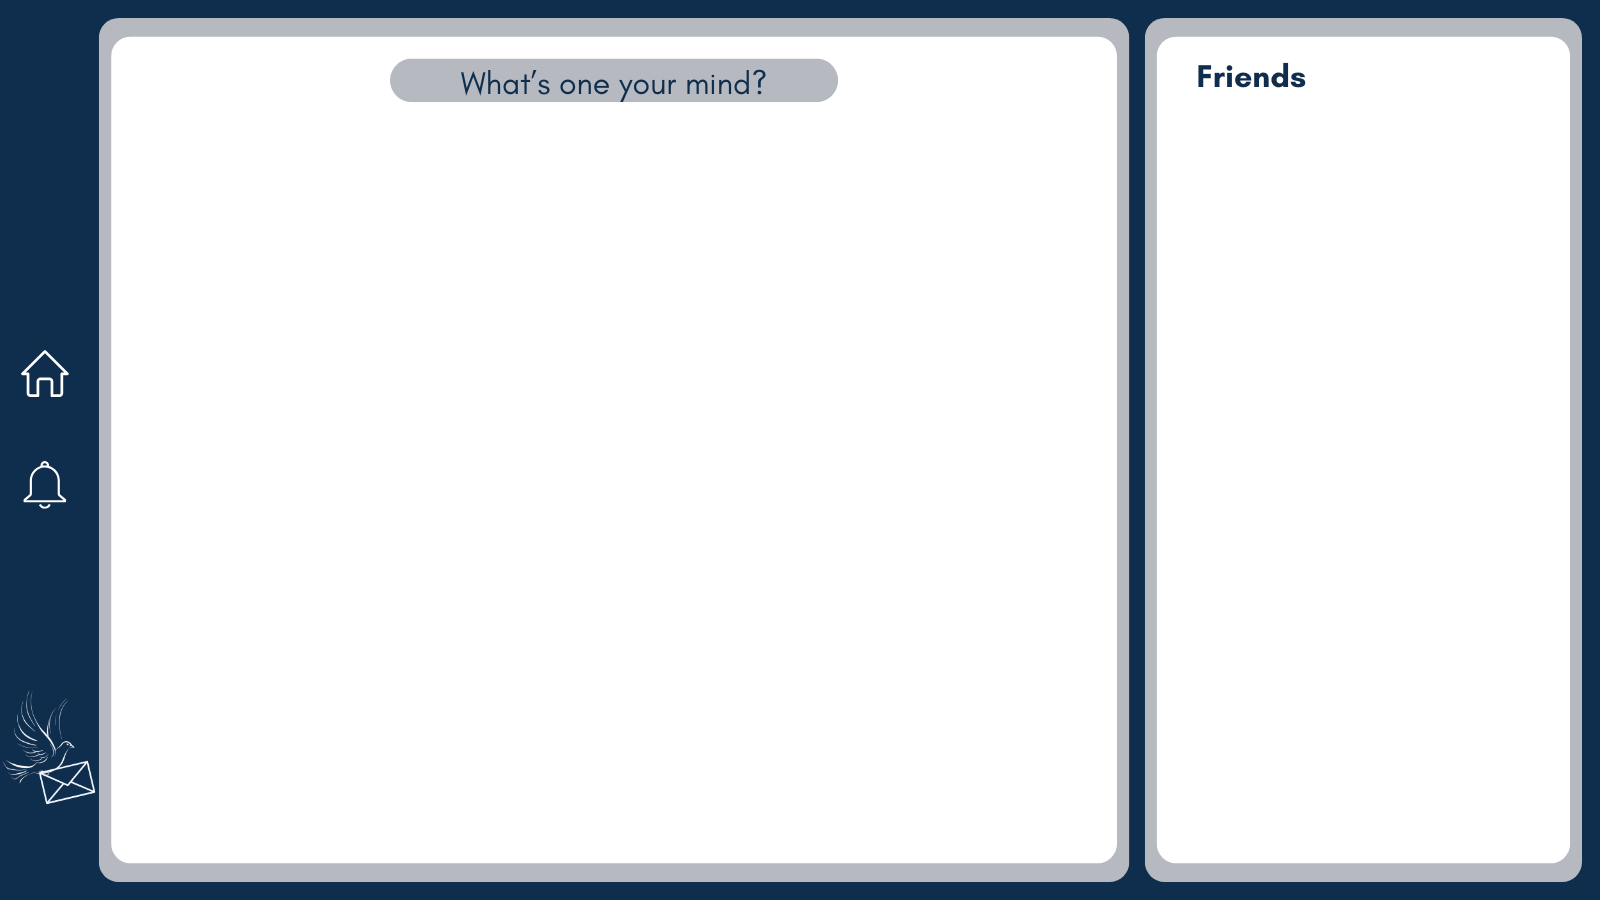
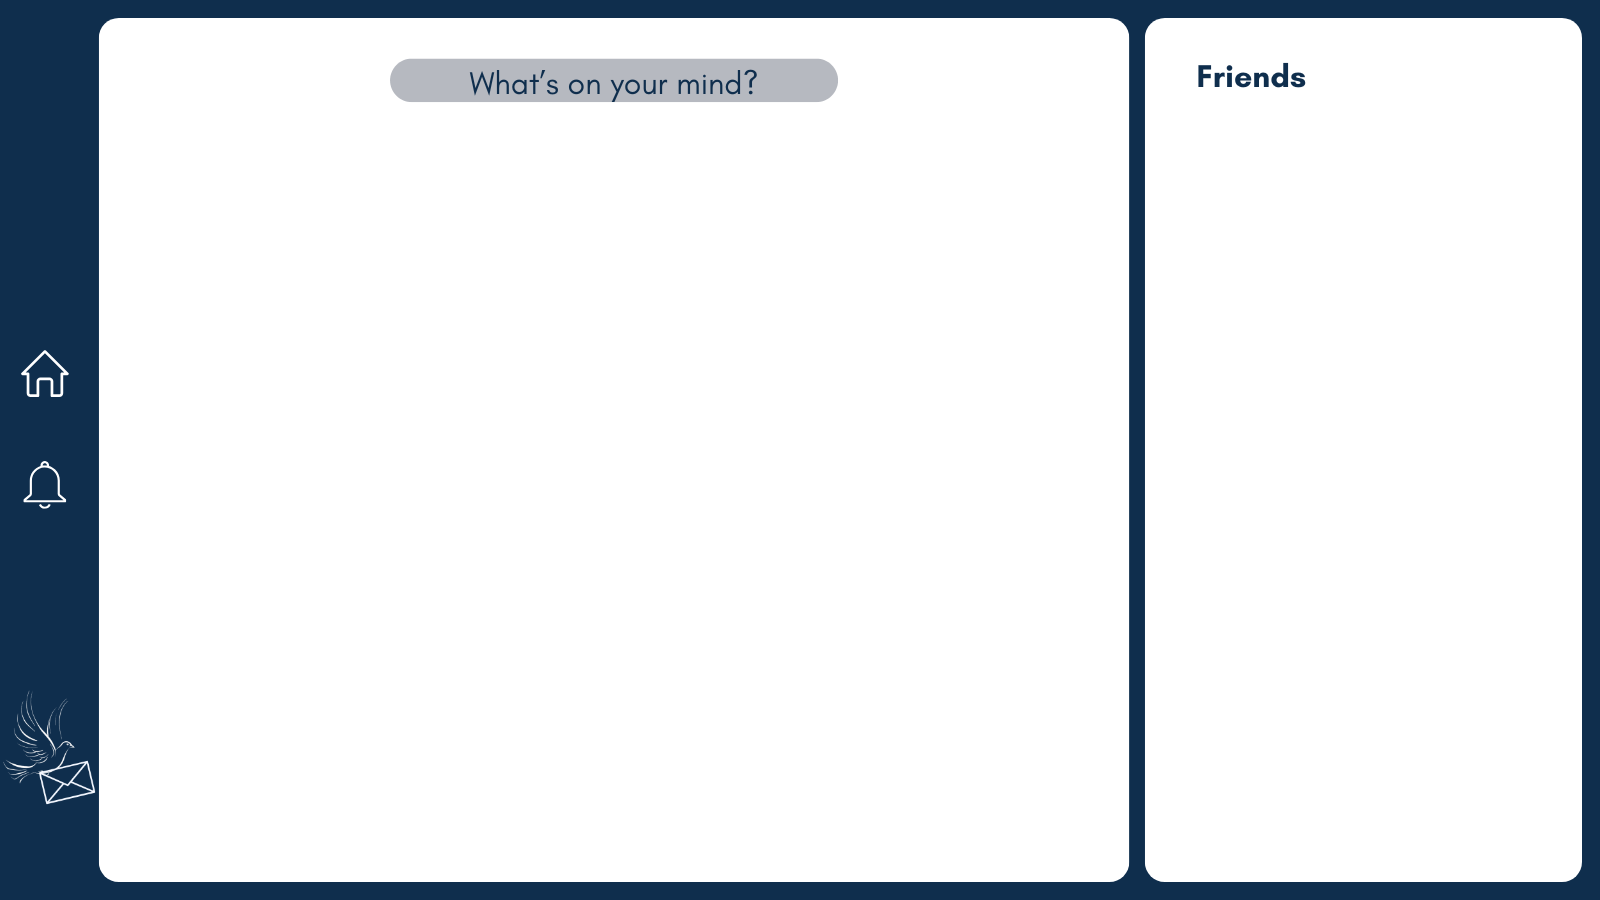
Uploaded by Arana

Changed region(s): [[0.0625, 0.0, 1.0, 0.9956]]

diff --git a/src/main/resources/FeedStyles.css b/src/main/resources/FeedStyles.css
@@ -1,0 +1,81 @@
+/* ScrollPane Styling */
+.scroll-pane {
+    -fx-background-color: transparent;
+    -fx-background-insets: 0;
+    -fx-padding: 0;
+    -fx-border-color: transparent;
+}
+
+.scroll-pane .viewport {
+    -fx-background-color: transparent;
+}
+
+.scroll-pane .scroll-bar:vertical,
+.scroll-pane .scroll-bar:horizontal {
+    -fx-background-color: transparent;
+}
+
+.scroll-pane .scroll-bar .thumb {
+    -fx-background-color: transparent;
+    -fx-background-insets: 0;
+    -fx-background-radius: 0;
+}
+
+.scroll-pane .scroll-bar .track {
+    -fx-background-color: transparent;
+}
+
+/* Feed container alignment */
+#feedContainer {
+    -fx-spacing: 20px;
+    -fx-padding: 20px;
+    -fx-alignment: center;
+}
+
+/* Post card styling */
+.post {
+    -fx-background-color: white;
+    -fx-background-radius: 12px;
+    -fx-border-color: #cccccc;
+    -fx-border-width: 1;
+    -fx-border-radius: 12px;
+    -fx-padding: 15px;
+    -fx-spacing: 10px;
+    -fx-max-width: 600px;
+    -fx-effect: dropshadow(gaussian, rgba(0, 0, 0, 0.08), 4, 0.2, 0, 2);
+    -fx-font-family: "Segoe UI", sans-serif;
+    -fx-font-size: 14px;
+}
+
+/* Text styles inside post */
+.label.username {
+    -fx-font-weight: bold;
+    -fx-text-fill: #333;
+}
+
+.label.timestamp {
+    -fx-text-fill: #888;
+    -fx-font-size: 12px;
+}
+
+.label.content {
+    -fx-text-fill: #111;
+    -fx-wrap-text: true;
+}
+.reaction-bar {
+    -fx-spacing: 10px;
+    -fx-padding: 5px 0 0 0;
+    -fx-alignment: center-left;
+}
+
+.reaction-button {
+    -fx-background-color: transparent;
+    -fx-font-size: 16px;
+    -fx-text-fill: #555;
+    -fx-cursor: hand;
+    -fx-border-color: transparent;
+}
+
+.reaction-button:hover {
+    -fx-text-fill: #000;
+}

diff --git a/src/main/resources/Styles.css b/src/main/resources/Styles.css
@@ -9,3 +9,4 @@
 .vbox {
     -fx-background-color: transparent;
 }
+Styles.css
